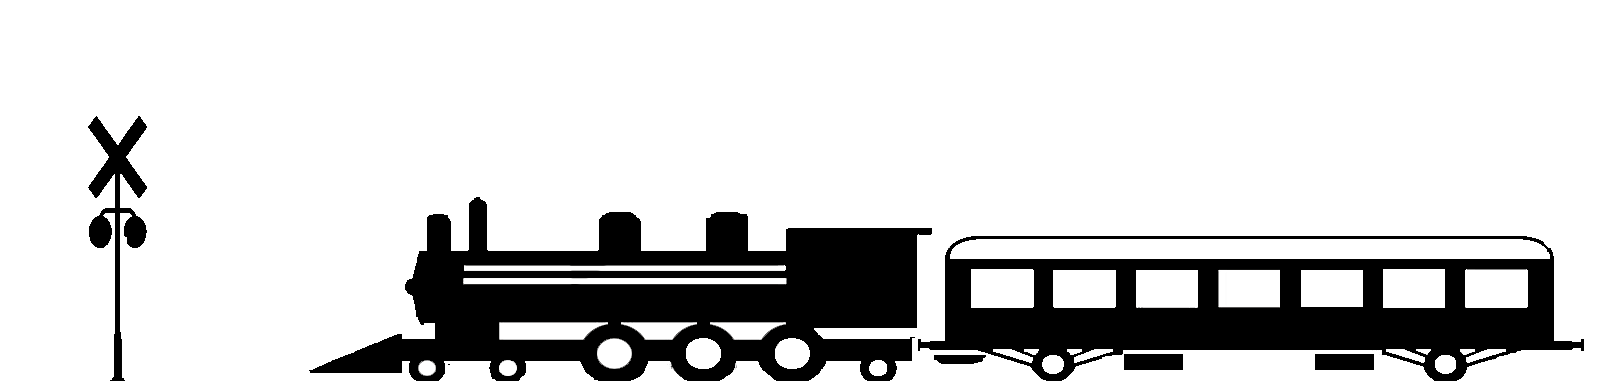
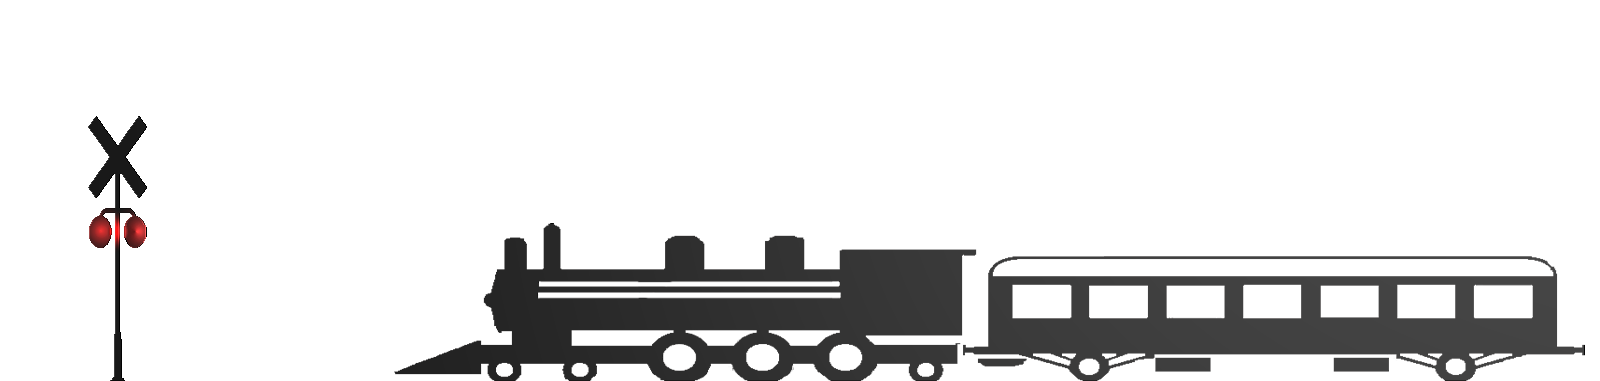
tests with crazy train

diff --git a/components/footer/Footer.tsx b/components/footer/Footer.tsx
@@ -4,7 +4,7 @@ import React from "react"
 
 import styles from "./Footer.module.scss"
 
-import trainImg from "../../public/images/crazy_train-crossing.png"
+import trainImg from "../../public/images/crazy_train-crossing-with-lights.png"
 
 type Props = {
     href: string,
@@ -23,6 +23,10 @@ export const LinkItem: React.FC<Props> = ({
 export function Footer() {
     return (
         <div className={styles.footer}>
+            <div className={styles.lamps}>
+                <div className={styles.lamp}>*</div>
+                <div className={styles.lamp}>*</div>
+            </div>
             <Image src={trainImg} className={styles.train}></Image>
             <div className={styles.container}>
                 <div className={styles.vision}>
